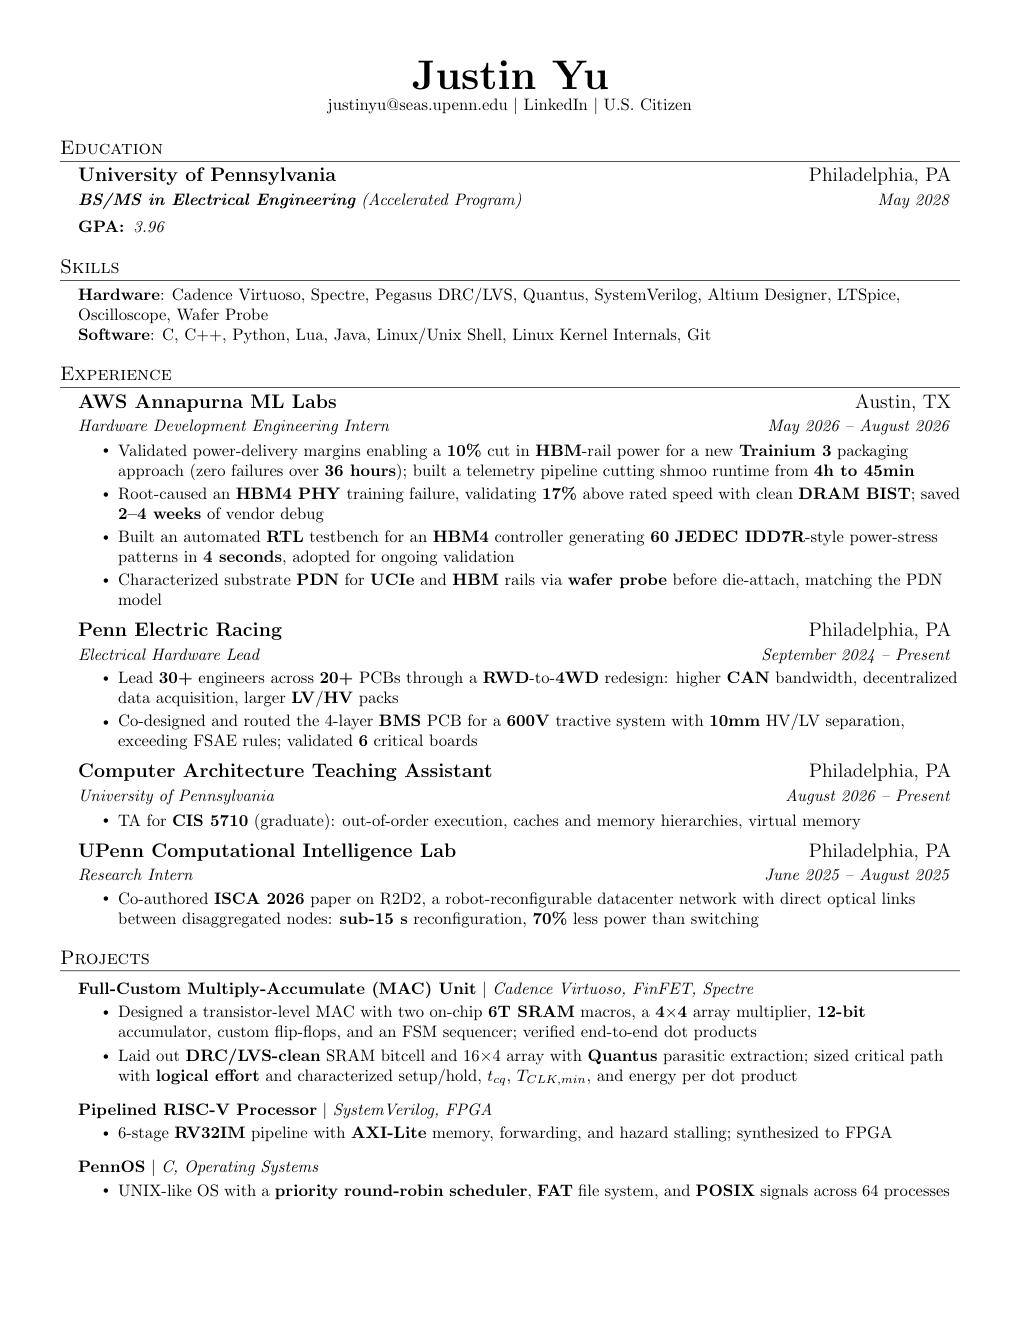
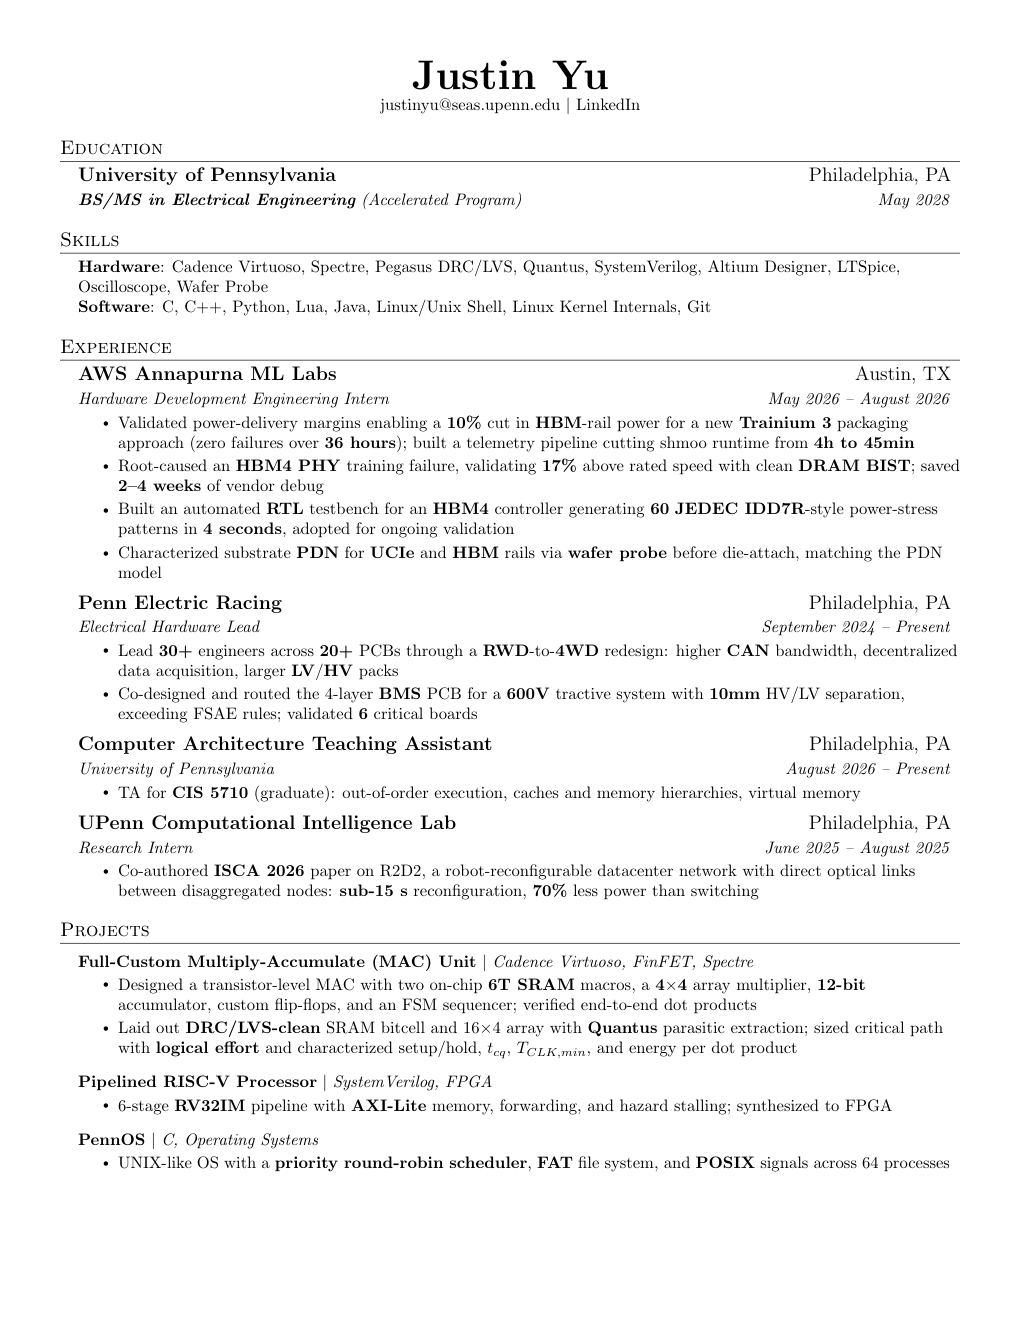
Copy from about-me.md; resume PDF drops GPA and citizenship

Changed region(s): [[0.0608, 0.1553, 0.9422, 0.9318], [0.3343, 0.0621, 0.6686, 0.0932]]

diff --git a/index.html b/index.html
@@ -549,9 +549,11 @@
   <button class="close" type="button" aria-label="Close">&times;</button>
   <span class="tag">About</span>
   <h3 id="t-about">About me</h3>
-  <p>I'm Justin, an electrical engineering student in Penn's accelerated BS/MS program, graduating in May 2028.</p>
-  <p>My work runs up and down the hardware stack: transistor-level circuits in Cadence Virtuoso, PCBs for a 600 V race car, and silicon validation on the bench. This past summer I was a hardware development engineering intern at AWS Annapurna Labs in Austin, working on Trainium 3 and HBM4.</p>
-  <p>During the school year I'm an electrical hardware lead for Penn Electric Racing and a TA for graduate computer architecture.</p>
+  <p>I'm Justin, an electrical engineering student in Penn's accelerated BS/MS program, graduating in May 2028. I like making real hardware work: boards, power, analog and silicon. I'm happiest when something misbehaves on the bench and I get to find out why.</p>
+  <p>I grew up doing competition robotics and science competitions, and came to Penn planning to do robotics. In my first ESE class I built a robot to play a silly iPhone game, and figured I was headed for robotics research.</p>
+  <p>Then I joined Penn Electric Racing and started working on high-voltage electronics. I fell for the fundamentals, started looking at everything from first principles, and my interests shifted to all things circuits. Since then I've kept moving down the stack, toward silicon.</p>
+  <p>Penn also changed how I work with people. Competitions taught me to treat peers as rivals; here I learned to reach out, share what I know, and learn over lunch with PhD students and teammates. I try to pay that forward by mentoring underclassmen.</p>
+  <p>Long term, I'm interested in novel compute architectures, and in making chips and datacenters more efficient and more sustainable.</p>
 </dialog>
 
 <dialog class="win resume" tabindex="-1" id="win-resume" aria-labelledby="t-resume">
@@ -606,7 +608,8 @@
   <span class="tag">Racing</span>
   <h3 id="t-racing">Penn Electric Racing</h3>
   <p>At Penn, I'm an electrical hardware lead for Penn Electric Racing, leading <strong>30+ engineers</strong> across <strong>20+ custom PCBs</strong>. Right now we're redesigning REV12 from rear-wheel to four-wheel drive, with more CAN bandwidth, decentralized data acquisition, and bigger low- and high-voltage packs.</p>
-  <p>I used to work on the high voltage side. I co-designed and routed the 4-layer battery management system board for our <strong>600 V</strong> tractive system, an STM32 board talking SPI, I2C and CAN, with <strong>10 mm</strong> of HV/LV separation, more than FSAE rules require. I also designed the High Voltage Indicator board, which steps <strong>600 V down to 12 V</strong> with a flyback, and validated six critical boards on the car.</p>
+  <p>I used to work on the high voltage side. I co-designed and routed the 4-layer battery management system board for our <strong>600 V</strong> tractive system, an STM32 board talking SPI, I2C and CAN, with <strong>10 mm</strong> of HV/LV separation, more than FSAE rules require. I also designed the High Voltage Indicator board, which keeps the safety light on whenever the pack is energized: a flyback steps <strong>600 V down to 12 V</strong>, and I picked the converter IC, added a BJT regulator stage for derating, and routed it for creepage and clearance.</p>
+  <p>I've validated six critical boards with scopes, thermal cameras and electronic loads. These days I also scope rookie projects for new members, like moving a debug board from micro-USB to USB-C and a clamp-on ground-loop tracer for the LV harness.</p>
 </dialog>
 
 <dialog class="win wide" tabindex="-1" id="win-silicon" aria-labelledby="t-silicon">
@@ -616,7 +619,7 @@
   <p class="role">Hardware Development Engineering Intern, Austin, summer 2026</p>
   <p>I validated power-delivery margins that let a new Trainium 3 packaging approach cut HBM-rail power by <strong>10%</strong>, with zero failures over 36 hours, and built a telemetry pipeline that cut shmoo runtime from <strong>4 hours to 45 minutes</strong>.</p>
   <p>I root-caused an HBM4 PHY training failure and validated the link at <strong>17% above rated speed</strong> with clean DRAM BIST, saving 2&ndash;4 weeks of vendor debug.</p>
-  <p>I also built an RTL testbench for an HBM4 controller that generates <strong>60</strong> JEDEC IDD7R-style power-stress patterns in <strong>4 seconds</strong>, now used for ongoing validation, and characterized the substrate power delivery network for the UCIe and HBM rails with wafer probe before die-attach.</p>
+  <p>I also built an RTL testbench for an HBM4 controller that generates <strong>60</strong> JEDEC IDD7R-style power-stress patterns in <strong>4 seconds</strong>, down from hours by hand; the team adopted it for ongoing validation. And I characterized the substrate power delivery network for the UCIe and HBM rails with wafer probe before die-attach, matching the PDN model.</p>
 </dialog>
 
 <dialog class="win wide" tabindex="-1" id="win-research" aria-labelledby="t-research">
@@ -624,8 +627,9 @@
   <span class="tag red">Research</span>
   <h3 id="t-research">ISCA 2026</h3>
   <p class="role">Research intern, Dr. Li's Computational Intelligence Lab at Penn, summer 2025</p>
-  <p>I co-authored <a href="https://www.computer.org/csdl/proceedings-article/isca/2026/506500b766/2iG11g5FM64" target="_blank" rel="noopener">a paper published at ISCA 2026</a> on <strong>R2D2</strong>, a robot-reconfigurable datacenter network with direct optical links between disaggregated nodes.</p>
+  <p>I co-authored <a href="https://www.computer.org/csdl/proceedings-article/isca/2026/506500b766/2iG11g5FM64" target="_blank" rel="noopener">R2D2: Robotized Reconfigurable Network for Disaggregated Datacenters</a>, published at ISCA 2026. R2D2 uses robots to physically reconnect direct optical links between disaggregated nodes.</p>
   <p>It reconfigures in <strong>under 15 seconds</strong> and uses <strong>70% less power</strong> than switching.</p>
+  <p>It was my first research experience, and the lab's PhD students shaped how I think about hard technical questions.</p>
   <p class="cta"><a href="https://www.computer.org/csdl/proceedings-article/isca/2026/506500b766/2iG11g5FM64" target="_blank" rel="noopener">Read the paper &rarr;</a></p>
 </dialog>
 
@@ -651,7 +655,7 @@
   <span class="tag red">Custom IC</span>
   <h3 id="t-sram">Pipelined MAC with two 16&times;4 SRAMs</h3>
   <p>In Cadence Virtuoso, I started with a 6T SRAM bitcell, laid out DRC/LVS-clean and run through Quantus parasitic extraction. I expanded it into an SRAM module with precharge, a sense amplifier and a decoder.</p>
-  <p>Then I built a sequencer and a 4&times;4 array multiplier, and put it all together with custom flip-flops and a 12-bit accumulator into a pipelined multiply-accumulate unit fed by two 16&times;4 SRAMs, verified on end-to-end dot products.</p>
+  <p>Then I built a sequencer and a 4&times;4 array multiplier, and put it all together with custom flip-flops and a 12-bit accumulator into a pipelined multiply-accumulate unit fed by two 16&times;4 SRAMs, verified on end-to-end dot products. DONE rises 18 cycles after START.</p>
   <p>I sized the critical path with logical effort and characterized setup and hold, clock-to-q, and energy per dot product. The finished MAC reached a minimum clock period of <strong>1.1 ns</strong>, about 909&nbsp;MHz, and I checked it for hold violations.</p>
 </dialog>
 
@@ -682,7 +686,8 @@
   <button class="close" type="button" aria-label="Close">&times;</button>
   <span class="tag">FPGA</span>
   <h3 id="t-fpga">Matrix-multiply accelerators</h3>
-  <p>On an Ultra96 board, which pairs ARM cores with programmable logic on a Zynq UltraScale+ chip, I wrote matrix-multiply accelerators using high-level synthesis (HLS).</p>
+  <p>On an Ultra96 board, which pairs ARM cores with programmable logic on a Zynq UltraScale+ chip, I wrote matrix-multiply kernels in Vitis HLS, with host code that overlaps data transfers and compute.</p>
+  <p>I also built a SHA, deduplication and compression pipeline on the same platform.</p>
 </dialog>
 
 
